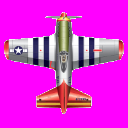
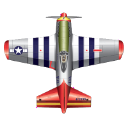
Add player class, movement, trap mouse
Player class: no cm, too tired =.="
Movement: like asteroid game, just a bit laggy when mouse go off screen
=.=
Trap mouse: totally suck OTL

diff --git a/main.cpp b/main.cpp
@@ -9,6 +9,7 @@
 
 #include "text.h"
 #include "texture.h"
+#include "player.h"
 
 using namespace std;
 
@@ -71,10 +72,11 @@ class Application {
     }
 
     void start() {
-        //Render aircraft
-        XxTexture aircraft;
+        //set player1
+        XxPlayer player1;
 
-        aircraft.loadFromFile( mRenderer ,"aircraft.gif");
+        player1.getAvatar( mRenderer ,"aircraft.png");
+        player1.getScreenSize(SCREEN_HEIGHT, SCREEN_WIDTH);
 
         //Main loop flag
         bool quit = false;
@@ -82,12 +84,10 @@ class Application {
         //Event handler
         SDL_Event e;
 
-        //Angle of rotation
-        double degrees=0;
-
         //While application is running
         while( !quit )
         {
+
             //Handle events on queue
             while( SDL_PollEvent( &e ) != 0 )
             {
@@ -96,27 +96,28 @@ class Application {
                 {
                     quit = true;
                 }
-                else if( e.type == SDL_KEYDOWN)
+                else
                 {
-                    switch( e.key.keysym.sym )
-                    {
-                        case SDLK_LEFT:
-                            degrees -= 5;
-                            break;
-                        case SDLK_RIGHT:
-                            degrees += 5;
-                            break;
-                    }
+                    player1.handleEvent(e);
                 }
+
             }
+
+            //Move the aircraft
+            player1.fly();
+
+            //Check off screen and move cursor to center
+            int x,y;
+            SDL_GetMouseState(&x,&y);
+            if ( x == 0 || y == 0 || x == SCREEN_WIDTH -1 || y == SCREEN_HEIGHT -1)
+                SDL_WarpMouseInWindow(mWindow, SCREEN_WIDTH /2 , SCREEN_HEIGHT /2);
 
             //Clear screen
             SDL_SetRenderDrawColor( mRenderer, 0xFF, 0xFF, 0xFF, 0xFF );
             SDL_RenderClear( mRenderer );
 
             //Render aircraft
-            aircraft.render( mRenderer,( SCREEN_WIDTH - aircraft.width() )/2,( SCREEN_HEIGHT - aircraft.height() )/2, NULL, degrees, NULL, SDL_FLIP_NONE );
-
+            player1.render(mRenderer);
             //Update screen
             SDL_RenderPresent(mRenderer);
         }
@@ -221,6 +222,8 @@ int main( int argc, char* args[] )
 		return 1;
 	}
 
+    //Hide cursor
+    SDL_ShowCursor(0);
     app.start();
 
 	return 0;

diff --git a/player.cpp b/player.cpp
@@ -1,0 +1,113 @@
+#include "player.h"
+#include <SDL.h>
+#include "texture.h"
+#include <stdio.h>
+#include <cmath>
+
+XxPlayer::XxPlayer()
+{
+    //Initialize
+    mPosX=0;
+    mPosY=0;
+    mVelX=0;
+    mVelY=0;
+    press=false;
+    rdegrees=0;
+    mdegrees=90;
+}
+
+XxPlayer::~XxPlayer()
+{
+}
+
+void XxPlayer::getAvatar(SDL_Renderer *r,char s[])
+{
+    aircraft.loadFromFile(r,s);
+
+}
+
+void XxPlayer::render(SDL_Renderer *r)
+{
+    aircraft.render(r, mPosX, mPosY, NULL, rdegrees, NULL, SDL_FLIP_NONE);
+}
+
+void XxPlayer::handleEvent(SDL_Event e)
+{
+    //Rotation
+    if( e.type == SDL_MOUSEMOTION)
+    {
+        int x,y;
+        SDL_GetRelativeMouseState(&x,&y);
+        if( x<-1 )
+            left();
+        if( x>1 )
+            right();
+    }
+    //If right button was pressed
+    if ( e.type == SDL_MOUSEBUTTONDOWN && e.button.button == SDL_BUTTON_RIGHT )
+        press=true;
+    //if right button was released
+    else if ( e.type == SDL_MOUSEBUTTONUP && e.button.button == SDL_BUTTON_RIGHT )
+        {
+            press=false;
+            mVelX=0;
+            mVelY=0;
+        }
+    //if holding right button
+    if (press)
+    {
+        mVelY=-sin(mdegrees*PI/180)*PLAYER_VEL;
+        mVelX=cos(mdegrees*PI/180)*PLAYER_VEL;
+    }
+}
+
+void XxPlayer::left()
+{
+    rdegrees -= PLAYER_RAD;
+    if(rdegrees<-360)
+        rdegrees+=360;
+
+    mdegrees += PLAYER_RAD;
+    if ( mdegrees > 360 )
+        mdegrees -= 360;
+}
+
+void XxPlayer::right()
+{
+    rdegrees += PLAYER_RAD;
+    if (rdegrees>360)
+        rdegrees -=360;
+
+    mdegrees -= PLAYER_RAD;
+    if ( mdegrees < 0 )
+        mdegrees += 360;
+}
+
+void XxPlayer::fly()
+{
+    //Move the aircraft left or right
+    mPosX += round(mVelX);
+
+    //went too far to the left
+    if ( mPosX + aircraft.width() < 0 )
+        mPosX = sWidth;
+    //went too far to the right
+    if ( mPosX > sWidth )
+        mPosX = -aircraft.width();
+
+    //Move the aircraft up or down
+    mPosY += round(mVelY);
+
+    //went too far up
+    if ( mPosY + aircraft.height() < 0 )
+        mPosY = sHeight;
+    //went too far down
+    if ( mPosY > sHeight )
+        mPosY = -aircraft.height();
+}
+
+void XxPlayer::getScreenSize(int a, int b)
+{
+    sHeight=a;
+    sWidth=b;
+}

diff --git a/player.h b/player.h
@@ -1,0 +1,62 @@
+#ifndef PLAYER_H_INCLUDED
+#define PLAYER_H_INCLUDED
+#include <SDL.h>
+#include "texture.h"
+
+class XxPlayer
+{
+    public:
+
+        //Maximum velocity
+        static const double PLAYER_VEL=3;
+        static const int PLAYER_RAD=3;
+        static const double PI=3.14159265;
+
+        //Initializes the variables
+        XxPlayer();
+
+        //Deallocated Memory
+        ~XxPlayer();
+
+        //Load image
+        void getAvatar(SDL_Renderer *r,char s[]);
+
+        //render
+        void render(SDL_Renderer *r);
+
+        //Event Handler
+        void handleEvent(SDL_Event e);
+
+        //Move the aircraft
+        void fly();
+
+        void getScreenSize(int a, int b);
+
+    private:
+        //Player position
+        int mPosX, mPosY;
+
+        //Screen height and width
+        int sHeight,sWidth;
+
+        //Velocity of player
+        double mVelX, mVelY;
+
+        //Angle use for rotation
+        double rdegrees;
+
+        //Angle use for calculate velocity
+        double mdegrees;
+
+        //Aircraft texture
+        XxTexture aircraft;
+
+        //Rotation
+        void left();
+        void right();
+
+        //check if right button press or not
+        bool press;
+};
+
+#endif // PLAYER_H_INCLUDED
